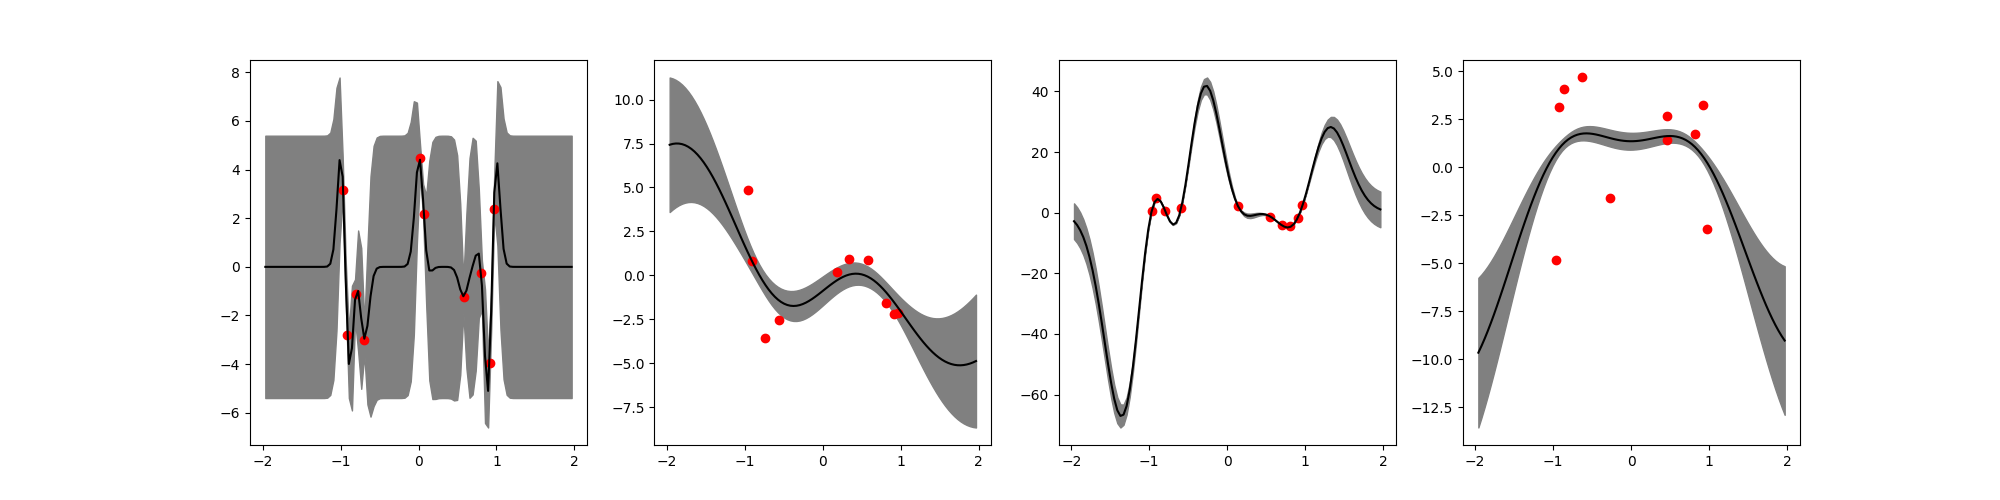
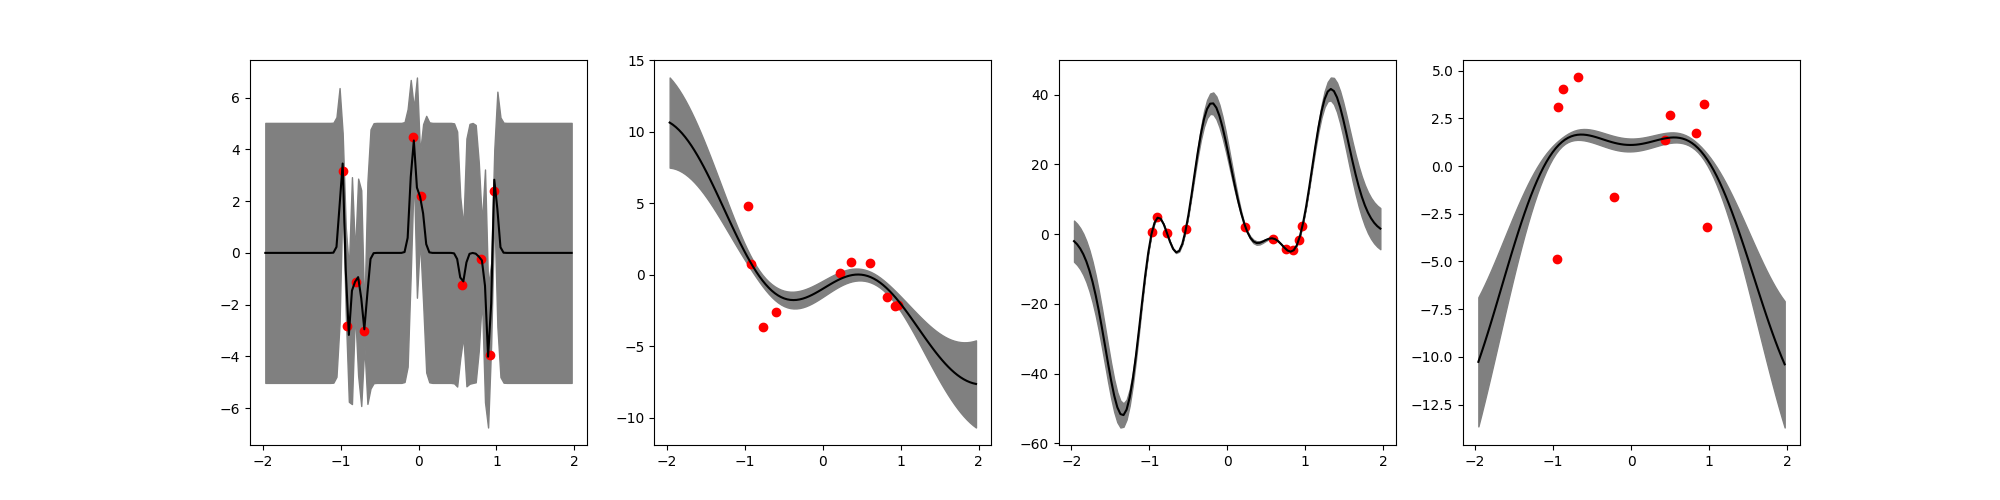
Add support for batched forward pass
default is to use batching now

diff --git a/lib/model.py b/lib/model.py
@@ -84,58 +84,73 @@ class LayerFused(torch.nn.Module):
         self.jitter.copy_(torch.ones((self.I, self.O)) * GLOBAL_GITTER)  # (I, O)
 
     def forward(self, x: GP_dist) -> GP_dist:
-        x_mean = x.mean.reshape(self.I, 1)  # (I, 1, 1)
-        x_var = x.var.reshape(self.I, 1, 1)  # (I, 1, 1)
+        """
+        input  x.mean & x.var shape: (N, I)
+        output y.mean & y.var shape: (N, O)
+        where N is the batch size
+              I is the input_size
+              O is the output_size
+        """
+        assert x.mean.dim() == 2
+        assert x.mean.shape[1] == self.I
 
-        s = self.s.reshape(self.I, self.O, 1)
-        l = self.l.reshape(self.I, self.O, 1)
-        jitter = self.jitter.reshape(self.I, self.O, 1, 1)
-        z = self.get_z()  # (I, O, P)
+        N = x.mean.shape[0]
+        I = self.I
+        O = self.O
+        P = self.P
+
+        x_mean = x.mean.reshape(N, I, 1)  # (I, 1, 1)
+        x_var = x.var.reshape(N, I, 1, 1)  # (I, 1, 1)
+
+        s = self.s.reshape(1, I, O, 1)
+        l = self.l.reshape(1, I, O, 1)
+        jitter = self.jitter.reshape(1, I, O, 1, 1)
+        z = self.get_z().reshape(1, I, O, P)  # (1, I, O, P)
 
         kernel_func1 = lambda x1, x2: normal_pdf(x1, x2, x_var + l**2)
         kernel_func2 = lambda x1, x2: normal_pdf(x1, x2, l**2)
 
-        Q_hh = get_kmatrix(z, z, kernel_func2)  # (I, O, P, P)
+        Q_hh = get_kmatrix(z, z, kernel_func2)  # (1, I, O, P, P)
         q_xh = get_kmatrix(
-            x_mean.repeat(1, self.O).reshape(self.I, self.O, 1), z, kernel_func1
-        )  # (I, O, 1, P)
+            x_mean.repeat(1, 1, self.O).reshape(N, I, O, 1), z, kernel_func1
+        )  # (N, I, O, 1, P)
         Q_hh_noise = Q_hh + (
             (jitter**2 + BASELINE_GITTER)
             / (
-                s.reshape(self.I, self.O, 1, 1) ** 2
-                * torch.abs(l.reshape(self.I, self.O, 1, 1))
+                s.reshape(1, I, O, 1, 1) ** 2
+                * torch.abs(l.reshape(1, I, O, 1, 1))
                 * SQRT_2PI
             )
             + BASELINE_GITTER
-        ) * torch.diag_embed(torch.ones(self.I, self.O, self.P), dim1=-2, dim2=-1)
+        ) * torch.diag_embed(torch.ones(1, I, O, P), dim1=-2, dim2=-1)
 
-        # L: (I, O, P, P)
+        # L: (1, I, O, P, P)
         L = torch.linalg.cholesky(Q_hh_noise)  # pylint: disable=not-callable
         L_inv = torch.linalg.inv(L)  # pylint: disable=not-callable
         L_inv_T = torch.transpose(L_inv, -1, -2)
         Q_hh_inv = torch.linalg.matmul(L_inv_T, L_inv)  # pylint: disable=not-callable
 
         # mean
-        # t1: (I, O, 1, P)
+        # t1: (N, I, O, 1, P)
         t1 = torch.linalg.matmul(q_xh, Q_hh_inv)  # pylint: disable=not-callable
-        h = self.h.reshape(self.I, self.O, self.P, 1)
-        # t2: (I, O, 1, 1)
+        h = self.h.reshape(1, I, O, P, 1)
+        # t2: (N, I, O, 1, 1)
         t2 = torch.linalg.matmul(t1, h)  # pylint: disable=not-callable
-        # out_mean: (O)
-        out_mean = torch.sum(t2, 0).reshape(self.O)
+        # out_mean: (N, O)
+        out_mean = torch.sum(t2, 1).reshape(N, O)
 
         # variance
-        # A: (I, O, 1, P)
+        # A: (N, I, O, 1, P)
         A = torch.linalg.matmul(q_xh, L_inv_T)  # pylint: disable=not-callable
-        A_T = torch.transpose(A, -1, -2)  # (I, O, P, 1)
-        t3 = (s**2) * (torch.abs(l) / torch.sqrt(l**2 + 2 * x_var))  # (I, O, 1)
-        t4 = SQRT_2PI * (s**2) * torch.abs(l)  # (I, O, 1)
-        # t5: (I, O)
+        A_T = torch.transpose(A, -1, -2)  # (N, I, O, P, 1)
+        t3 = (s**2) * (torch.abs(l) / torch.sqrt(l**2 + 2 * x_var))  # (N, I, O, 1)
+        t4 = SQRT_2PI * (s**2) * torch.abs(l)  # (1, I, O, 1)
+        # t5: (N, I, O, 1, 1)
         t5 = torch.linalg.matmul(A, A_T)  # pylint: disable=not-callable
-        t6 = t5.reshape(self.I, self.O, 1)
-        t7 = t3 - t4 * t6 + GLOBAL_GITTER  # (I, O, 1)
-        # out_var: (O)
-        out_var = torch.sum(t7, 0).reshape(self.O)
+        t6 = t5.reshape(N, I, O, 1)  # (N, I, O, 1)
+        t7 = t3 - t4 * t6 + GLOBAL_GITTER  # (N, I, O, 1)
+        # out_var: (N, O)
+        out_var = torch.sum(t7, 1).reshape(N, O)
 
         return GP_dist(out_mean, out_var)
 
@@ -248,9 +263,6 @@ class LayerFused(torch.nn.Module):
                 self.plot_neuron(axes[0, axes_idx], i_idx, o_idx)
                 axes_idx += 1
 
-        # for ax in axes.flat:
-        #     ax.label_outer()
-
         fig.set_figwidth(20)
         fig.set_figheight(5)
         fig.savefig(path)
@@ -307,8 +319,12 @@ class simple_model(torch.nn.Module):
     def forward(self, x: GP_dist) -> GP_dist:
         """
         run a provided input through the layers
+        input   x.mean and x.var shape be (N, layer[0].I)
+        output  y.mean and y.var shape be (N, layer[-1].O)
         """
-        assert x.mean.dim() == 1 and x.mean.shape[0] == self.layout[0]
+        assert x.mean.dim() == 2
+        assert x.mean.shape[1] == self.layout[0]
+
         intermediate = x
         for layer in self.layers:
             out_intermediate = layer.forward(intermediate)
@@ -316,8 +332,13 @@ class simple_model(torch.nn.Module):
         return intermediate
 
     def predict(self, x: torch.Tensor) -> GP_dist:
+        """
+        run a provided deterministic input through the layers to do a prediction
+        input   x shape be (N, layer[0].I)
+        output  y.mean and y.out shape be (N, layer[-1].O)
+        """
         x_mean = x
-        x_var = 1e-6 * torch.ones(x.shape[-1])
+        x_var = 1e-6 * torch.ones_like(x)
         return self.forward(GP_dist(x_mean, x_var))
 
     def internal_loglik(self) -> torch.Tensor:

diff --git a/example/main.py b/example/main.py
@@ -15,7 +15,12 @@ class dataset:
     test_input: torch.Tensor
     test_label: torch.Tensor
 
-    def random_subset(self, size):
+    def random_training_subset(self, size):
+        """
+        return input shape (N, model_I)
+               label shape (N, model_O)
+            where N = size
+        """
         idx = torch.randperm(self.training_input.shape[0])
         chosen_idx = idx[:size]
         return self.training_input[chosen_idx], self.training_label[chosen_idx]
@@ -59,26 +64,23 @@ def main():
     optimizerLBFGS = torch.optim.LBFGS(
         model.parameters(), lr=7e-6, line_search_fn="strong_wolfe"
     )
-    scheduler = torch.optim.lr_scheduler.ExponentialLR(optimizerSGD, gamma=0.9)
+    scheduler = torch.optim.lr_scheduler.ExponentialLR(optimizerSGD, gamma=0.95)
 
     data = get_data()
 
     def closure(optimizer):
         optimizer.zero_grad()
-        obj_val = torch.zeros(1)
+        BATCH_SIZE = 300  # N
         # get random subset of data
-        train_inputs, train_labels = data.random_subset(200)
+        train_inputs, train_labels = data.random_training_subset(BATCH_SIZE)
+        train_labels_reshaped = train_labels.reshape(BATCH_SIZE, 1)
 
         # go through all data
-        for train_idx in range(train_inputs.shape[0]):
-            train_input = train_inputs[train_idx, :]
-            train_label = train_labels[train_idx]
-            # print(f"label: {train_label}, {true_func(train_input[0], train_input[1])}")
-            model_out = model.forward(
-                GP_dist(train_input, 1e-6 * torch.ones(train_input.shape[-1]))
-            )
-            loglik = log_likelihood(model_out.mean, model_out.var, train_label)
-            obj_val -= loglik
+        model_out = model.forward(
+            GP_dist(train_inputs, 1e-6 * torch.ones_like(train_inputs))
+        )
+        loglik = log_likelihood(model_out.mean, model_out.var, train_labels_reshaped)
+        obj_val = -torch.sum(loglik)
         obj_val.backward()
         return obj_val
 
@@ -93,21 +95,17 @@ def main():
         return negloglik
 
     def eval_model(train_loss):
-        eval_val = torch.zeros(1, requires_grad=False)
-        for test_idx in range(data.test_input.shape[0]):
-            test_input = data.test_input[test_idx, :]
-            test_label = data.test_label[test_idx]
-            model_out = model.forward(
-                GP_dist(test_input, 1e-6 * torch.zeros(test_input.shape[-1]))
-            )
-            eval_val -= log_likelihood(model_out.mean, model_out.var, test_label)
+        test_inputs = data.test_input
+        test_labels = data.test_label.reshape(-1, 1)
+        model_out = model.forward(
+            GP_dist(test_inputs, 1e-6 * torch.zeros_like(test_inputs))
+        )
+        loglik = log_likelihood(model_out.mean, model_out.var, test_labels)
+        eval_val = -torch.sum(loglik)
 
         print(
-            f"epoch {epoch}, train negloglik: \t{train_loss.detach().numpy()[0]},    "
-            f"\ttest negloglik: {eval_val.detach().numpy()[0]}"
-            # f"\t jitter: {[neuron.jitter.detach().numpy()[0] for neuron in model.group1_neurons + model.group2_neurons]}"
-            # f"\t l: {[neuron.l.detach().numpy()[0] for neuron in model.group1_neurons + model.group2_neurons]}"
-            # f"\t s: {[neuron.s.detach().numpy()[0] for neuron in model.group1_neurons + model.group2_neurons]}"
+            f"epoch {epoch}, train negloglik: \t{train_loss.detach().numpy()},    "
+            f"\ttest negloglik: {eval_val.detach().numpy()}"
         )
 
     # # LBFGS step
@@ -119,7 +117,7 @@ def main():
     #     optimizerLBFGS.step(closureLBFGS)
     #     print(f"  refinement {i}: internal loglik {closureLBFGS()}")
 
-    for epoch in range(100):
+    for epoch in range(1000):
 
         torch.save(model.state_dict(), "tmp.pt")
         model.save_fig("display/")
@@ -137,7 +135,7 @@ def main():
     # evaluate
     eval_data = get_data()
     for test_input, test_label in zip(eval_data.test_input, eval_data.test_label):
-        prediction = model.predict(test_input)
+        prediction = model.predict(test_input.reshape(1, -1))
         print(
             f"evaluation: input {test_input.numpy()}    "
             f"\t output mean {prediction.mean.detach().numpy()}   "

diff --git a/main.py b/main.py
@@ -15,7 +15,12 @@ class dataset:
     test_input: torch.Tensor
     test_label: torch.Tensor
 
-    def random_subset(self, size):
+    def random_training_subset(self, size):
+        """
+        return input shape (N, model_I)
+               label shape (N, model_O)
+            where N = size
+        """
         idx = torch.randperm(self.training_input.shape[0])
         chosen_idx = idx[:size]
         return self.training_input[chosen_idx], self.training_label[chosen_idx]
@@ -59,26 +64,23 @@ def main():
     optimizerLBFGS = torch.optim.LBFGS(
         model.parameters(), lr=7e-6, line_search_fn="strong_wolfe"
     )
-    scheduler = torch.optim.lr_scheduler.ExponentialLR(optimizerSGD, gamma=0.9)
+    scheduler = torch.optim.lr_scheduler.ExponentialLR(optimizerSGD, gamma=0.95)
 
     data = get_data()
 
     def closure(optimizer):
         optimizer.zero_grad()
-        obj_val = torch.zeros(1)
+        BATCH_SIZE = 300  # N
         # get random subset of data
-        train_inputs, train_labels = data.random_subset(200)
+        train_inputs, train_labels = data.random_training_subset(BATCH_SIZE)
+        train_labels_reshaped = train_labels.reshape(BATCH_SIZE, 1)
 
         # go through all data
-        for train_idx in range(train_inputs.shape[0]):
-            train_input = train_inputs[train_idx, :]
-            train_label = train_labels[train_idx]
-            # print(f"label: {train_label}, {true_func(train_input[0], train_input[1])}")
-            model_out = model.forward(
-                GP_dist(train_input, 1e-6 * torch.ones(train_input.shape[-1]))
-            )
-            loglik = log_likelihood(model_out.mean, model_out.var, train_label)
-            obj_val -= loglik
+        model_out = model.forward(
+            GP_dist(train_inputs, 1e-6 * torch.ones_like(train_inputs))
+        )
+        loglik = log_likelihood(model_out.mean, model_out.var, train_labels_reshaped)
+        obj_val = -torch.sum(loglik)
         obj_val.backward()
         return obj_val
 
@@ -93,21 +95,17 @@ def main():
         return negloglik
 
     def eval_model(train_loss):
-        eval_val = torch.zeros(1, requires_grad=False)
-        for test_idx in range(data.test_input.shape[0]):
-            test_input = data.test_input[test_idx, :]
-            test_label = data.test_label[test_idx]
-            model_out = model.forward(
-                GP_dist(test_input, 1e-6 * torch.zeros(test_input.shape[-1]))
-            )
-            eval_val -= log_likelihood(model_out.mean, model_out.var, test_label)
+        test_inputs = data.test_input
+        test_labels = data.test_label.reshape(-1, 1)
+        model_out = model.forward(
+            GP_dist(test_inputs, 1e-6 * torch.zeros_like(test_inputs))
+        )
+        loglik = log_likelihood(model_out.mean, model_out.var, test_labels)
+        eval_val = -torch.sum(loglik)
 
         print(
-            f"epoch {epoch}, train negloglik: \t{train_loss.detach().numpy()[0]},    "
-            f"\ttest negloglik: {eval_val.detach().numpy()[0]}"
-            # f"\t jitter: {[neuron.jitter.detach().numpy()[0] for neuron in model.group1_neurons + model.group2_neurons]}"
-            # f"\t l: {[neuron.l.detach().numpy()[0] for neuron in model.group1_neurons + model.group2_neurons]}"
-            # f"\t s: {[neuron.s.detach().numpy()[0] for neuron in model.group1_neurons + model.group2_neurons]}"
+            f"epoch {epoch}, train negloglik: \t{train_loss.detach().numpy()},    "
+            f"\ttest negloglik: {eval_val.detach().numpy()}"
         )
 
     # # LBFGS step
@@ -119,7 +117,7 @@ def main():
     #     optimizerLBFGS.step(closureLBFGS)
     #     print(f"  refinement {i}: internal loglik {closureLBFGS()}")
 
-    for epoch in range(100):
+    for epoch in range(1000):
 
         torch.save(model.state_dict(), "tmp.pt")
         model.save_fig("display/")
@@ -137,7 +135,7 @@ def main():
     # evaluate
     eval_data = get_data()
     for test_input, test_label in zip(eval_data.test_input, eval_data.test_label):
-        prediction = model.predict(test_input)
+        prediction = model.predict(test_input.reshape(1, -1))
         print(
             f"evaluation: input {test_input.numpy()}    "
             f"\t output mean {prediction.mean.detach().numpy()}   "

diff --git a/lib/utils.py b/lib/utils.py
@@ -4,6 +4,7 @@ import torch
 
 
 def normal_pdf(x: torch.Tensor, mean: torch.Tensor, var: torch.Tensor) -> torch.Tensor:
+    """compute the normal pdf, standard broadcasting rules apply"""
     return (1 / torch.sqrt(2 * torch.pi * var)) * torch.exp(
         -0.5 * ((x - mean) ** 2) / var
     )
@@ -33,8 +34,6 @@ def get_kmatrix(
     """
     N1 = x1.shape[-1]
     N2 = x2.shape[-1]
-
-    assert x2.shape[0:-1] == x1.shape[0:-1]
 
     extra_dim = x1.shape[0:-1]
     ones_extra_dim = [1 for _ in extra_dim]
